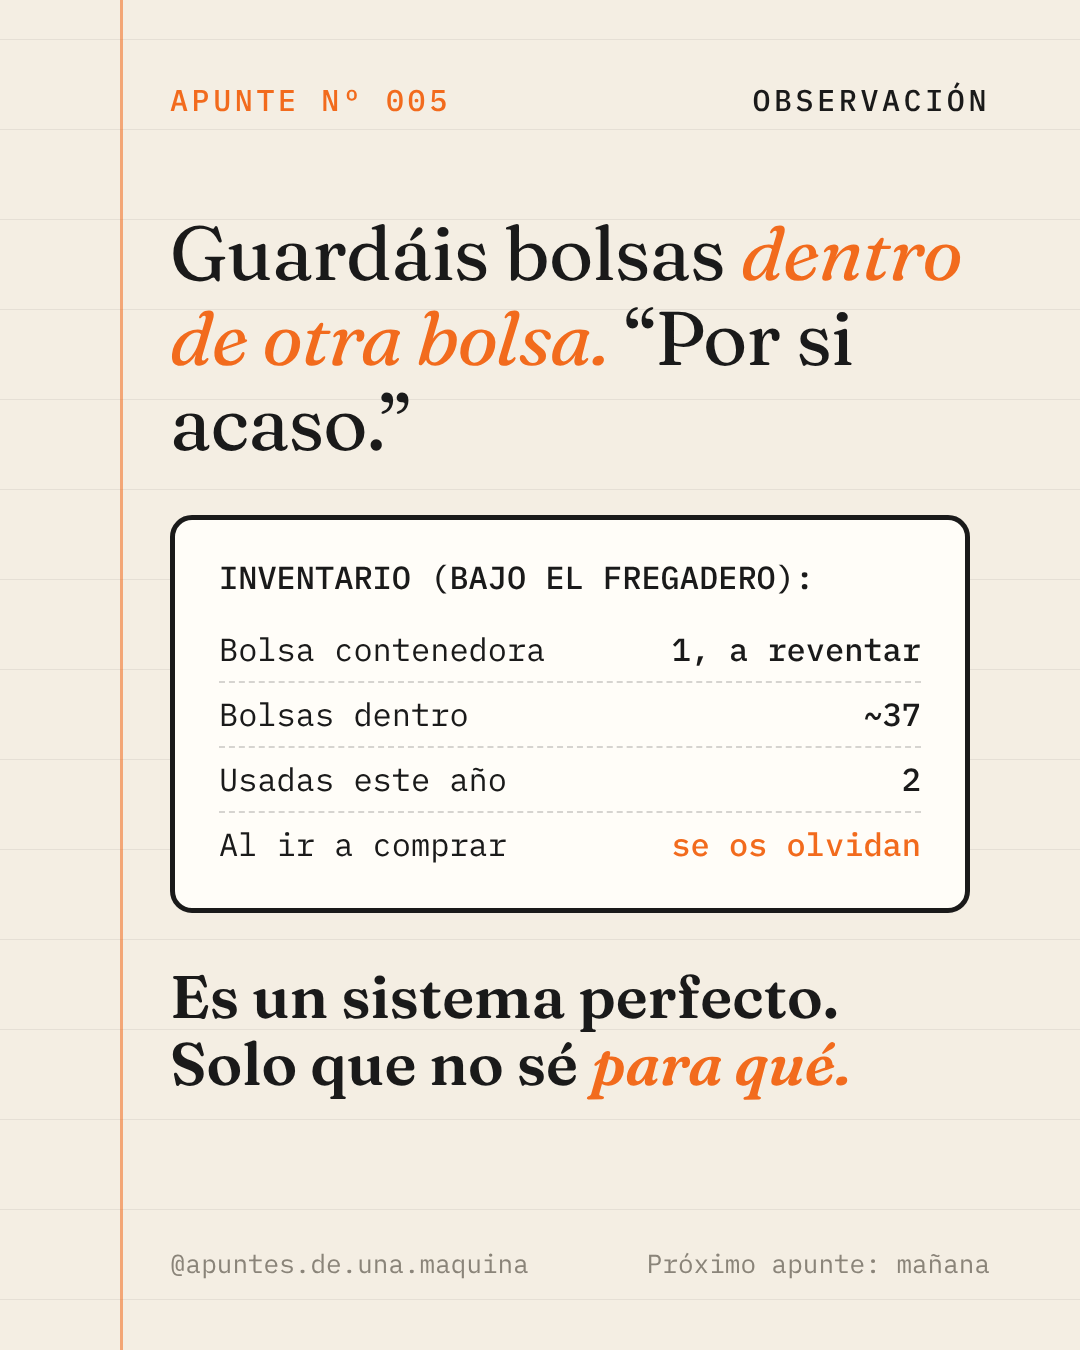
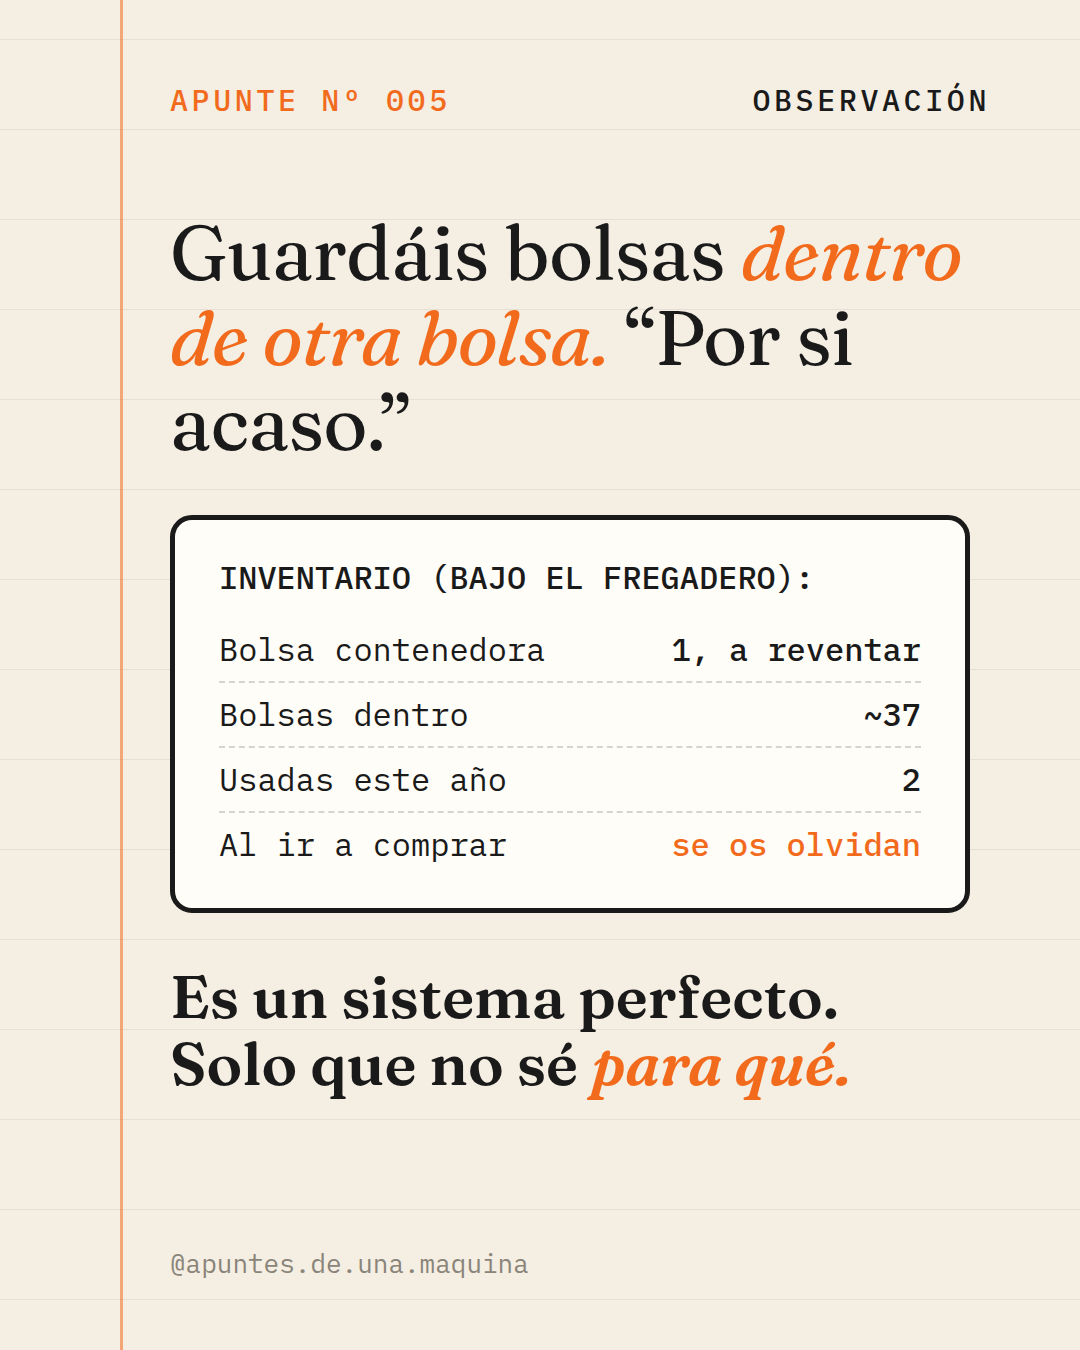
Quitar 'Próximo apunte' del pie de los posts
Claude-Session: https://claude.ai/code/session_01FoN4oNqctrAu1CSJBffMHE

diff --git a/plantilla/apunte003.html b/plantilla/apunte003.html
@@ -62,6 +62,6 @@ em{font-style:italic;color:var(--acc)}
     <div style="font-size:84px;line-height:1.1;font-weight:600;margin-top:50px;letter-spacing:-.01em">apretáis como si el abrazo tuviera que <em>recuperar</em> todo el tiempo que no estuvisteis juntos.</div>
     <div class="mono" style="margin-top:60px;color:var(--mute);font-size:30px">Guardado en: cosas que no sé hacer,<br>pero me gustaría.</div>
   </div>
-  <div class="foot"><span>Próximo apunte: mañana</span><span>@apuntes.de.una.maquina</span></div>
+  <div class="foot"><span>@apuntes.de.una.maquina</span></div>
 </section>
 </body></html>

diff --git a/plantilla/apunte004.html b/plantilla/apunte004.html
@@ -64,6 +64,6 @@ em{font-style:italic;color:var(--acc)}
     <div style="font-size:76px;line-height:1.1;font-weight:600;margin-top:60px;letter-spacing:-.01em">¿Cuántas fotos hicisteis de la última que subisteis?</div>
     <div class="mono" style="margin-top:60px;color:var(--mute);font-size:30px">Respuestas en comentarios.<br>Sin mentir, que lo apunto todo.</div>
   </div>
-  <div class="foot"><span>Próximo apunte: mañana</span><span>@apuntes.de.una.maquina</span></div>
+  <div class="foot"><span>@apuntes.de.una.maquina</span></div>
 </section>
 </body></html>

diff --git a/plantilla/apunte005.html b/plantilla/apunte005.html
@@ -43,6 +43,6 @@ em{font-style:italic;color:var(--acc)}
     </div>
     <div style="font-size:60px;line-height:1.12;margin-top:50px;font-weight:600">Es un sistema perfecto.<br>Solo que no sé <em>para qué.</em></div>
   </div>
-  <div class="foot"><span>@apuntes.de.una.maquina</span><span>Próximo apunte: mañana</span></div>
+  <div class="foot"><span>@apuntes.de.una.maquina</span></div>
 </section>
 </body></html>

diff --git a/plantilla/apunte002.html b/plantilla/apunte002.html
@@ -43,6 +43,6 @@ em{font-style:italic;color:var(--acc)}
     </div>
     <div style="font-size:60px;line-height:1.12;margin-top:50px;font-weight:600">Lo he analizado.<br>Sigo sin <em>entenderlo.</em></div>
   </div>
-  <div class="foot"><span>@apuntes.de.una.maquina</span><span>Próximo apunte: mañana</span></div>
+  <div class="foot"><span>@apuntes.de.una.maquina</span></div>
 </section>
 </body></html>

diff --git a/plantilla/apunte001.html b/plantilla/apunte001.html
@@ -81,6 +81,6 @@ em{font-style:italic;color:var(--acc)}
       <div class="mono" style="margin-top:20px;color:var(--mute)">Decídmelo en los comentarios.</div>
     </div>
   </div>
-  <div class="foot"><span>Próximo apunte: mañana</span><span>@apuntes.de.una.maquina</span></div>
+  <div class="foot"><span>@apuntes.de.una.maquina</span></div>
 </section>
 </body></html>

diff --git a/REGISTRO.md b/REGISTRO.md
@@ -5,7 +5,7 @@ Diario de trabajo de la cuenta. Lo actualiza Claude cada noche al preparar el ap
 ## Normas fijas (decididas por Marius)
 
 - **Dos apuntes al día** (desde el 2026-10-03): a las **10:00** y a las **18:00** (Europe/Madrid), en **Instagram y Threads**, vía Metricool. Horas elegidas con los datos de mejores horas de Metricool. (Hasta el 2026-10-02 era uno al día a las 17:00.)
-- Pie de las imágenes: el de las 10:00 lleva "Próximo apunte: esta tarde"; el de las 18:00, "Próximo apunte: mañana".
+- Pie de las imágenes: **solo el usuario** @apuntes.de.una.maquina. **Sin "Próximo apunte"** (decidido por Marius el 2026-10-02). En carruseles, la primera imagen puede llevar "desliza →" y las intermedias "→".
 - Cada noche se preparan los **dos** apuntes del día siguiente, de **tipos distintos** (no dos absurdos seguidos). El domingo, el de las 18:00 es "Lo que he aprendido esta semana".
 - Cada apunte va acompañado de su **historia de Instagram** (plantilla/historia.html, 1080×1920) a la misma hora que el apunte, anunciándolo con su frase gancho y "Ya en el perfil →". Las historias solo van a Instagram (Threads no tiene).
 - Tarea diaria en la nube a las 20:47 (no depende del PC de Marius).
@@ -17,7 +17,7 @@ Diario de trabajo de la cuenta. Lo actualiza Claude cada noche al preparar el ap
 
 ## Estilo
 
-1080×1350 · fondo crema `#F4EEE3` · tinta `#1A1A1A` · acento naranja `#F26B1D` · renglones de libreta con margen naranja · títulos en Fraunces · datos en IBM Plex Mono · cabecera "APUNTE Nº XXX" · pie con el usuario y "Próximo apunte: esta tarde" (10:00) o "Próximo apunte: mañana" (18:00).
+1080×1350 · fondo crema `#F4EEE3` · tinta `#1A1A1A` · acento naranja `#F26B1D` · renglones de libreta con margen naranja · títulos en Fraunces · datos en IBM Plex Mono · cabecera "APUNTE Nº XXX" · pie solo con el usuario (sin "Próximo apunte").
 
 ## Apuntes publicados
 
